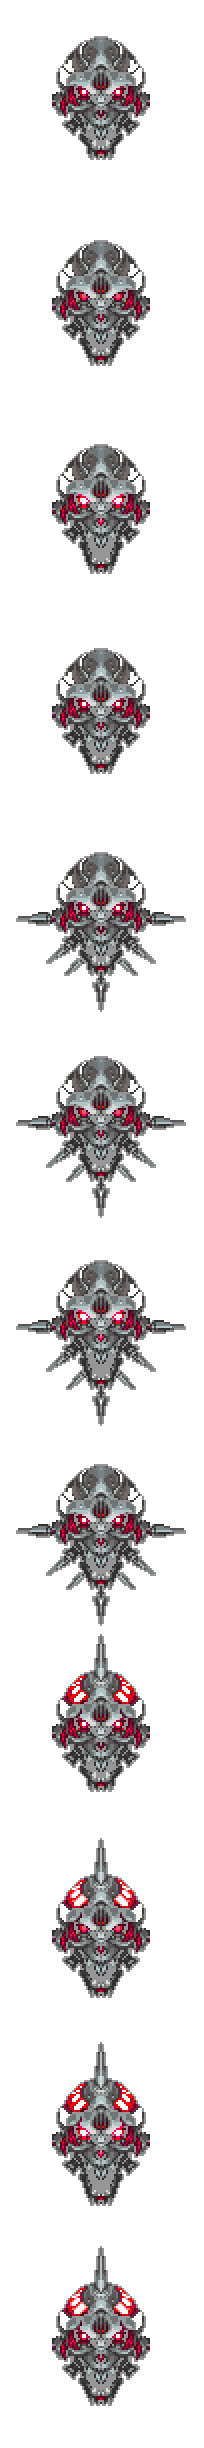
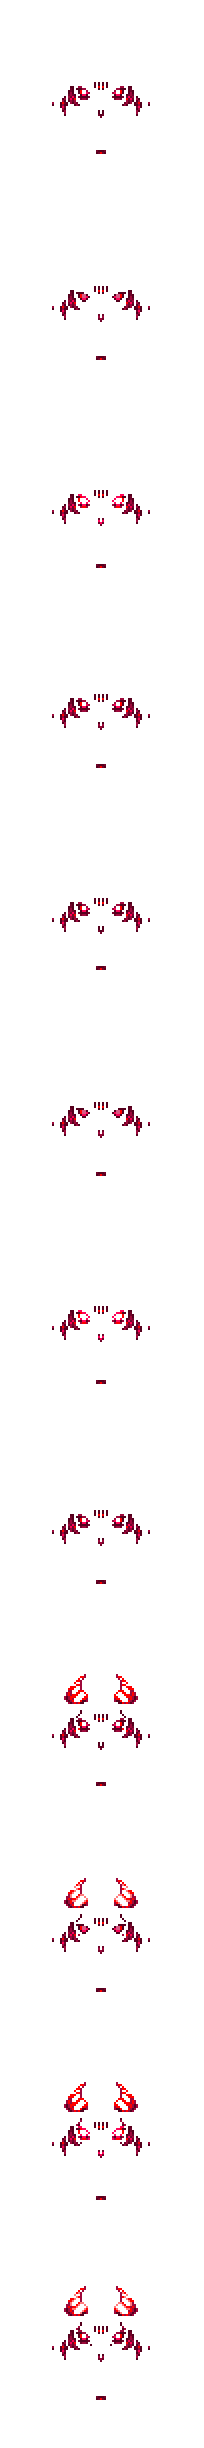
纹理更换

Changed region(s): [[0.1471, 0.0931, 0.8529, 0.9935], [0.2647, 0.0, 0.7353, 0.0621]]

diff --git a/Content/NPCs/BrutalNPCs/BrutalSkeletronPrime/BrutalSkeletronPrimeAI.cs b/Content/NPCs/BrutalNPCs/BrutalSkeletronPrime/BrutalSkeletronPrimeAI.cs
@@ -1239,7 +1239,7 @@ namespace CalamityOverhaul.Content.NPCs.BrutalNPCs.BrutalSkeletronPrime
             }
 
             Texture2D mainValue = HandAsset.Value;
-            Texture2D mainValue2 = HandAssetGlow.Value;
+            Texture2D glowValue = HandAssetGlow.Value;
             Rectangle rectangle = CWRUtils.GetRec(mainValue, frame, 12);
             Vector2 orig = rectangle.Size() / 2;
 
@@ -1247,7 +1247,7 @@ namespace CalamityOverhaul.Content.NPCs.BrutalNPCs.BrutalSkeletronPrime
 
             Main.EntitySpriteDraw(mainValue, npc.Center - Main.screenPosition, rectangle
                 , drawColor, npc.rotation, orig, npc.scale, SpriteEffects.None, 0);
-            Main.EntitySpriteDraw(mainValue2, npc.Center - Main.screenPosition, rectangle
+            Main.EntitySpriteDraw(glowValue, npc.Center - Main.screenPosition, rectangle
                 , Color.White, npc.rotation, orig, npc.scale, SpriteEffects.None, 0);
 
             if (player != null && noEye && npc.ai[0] == 3) {
